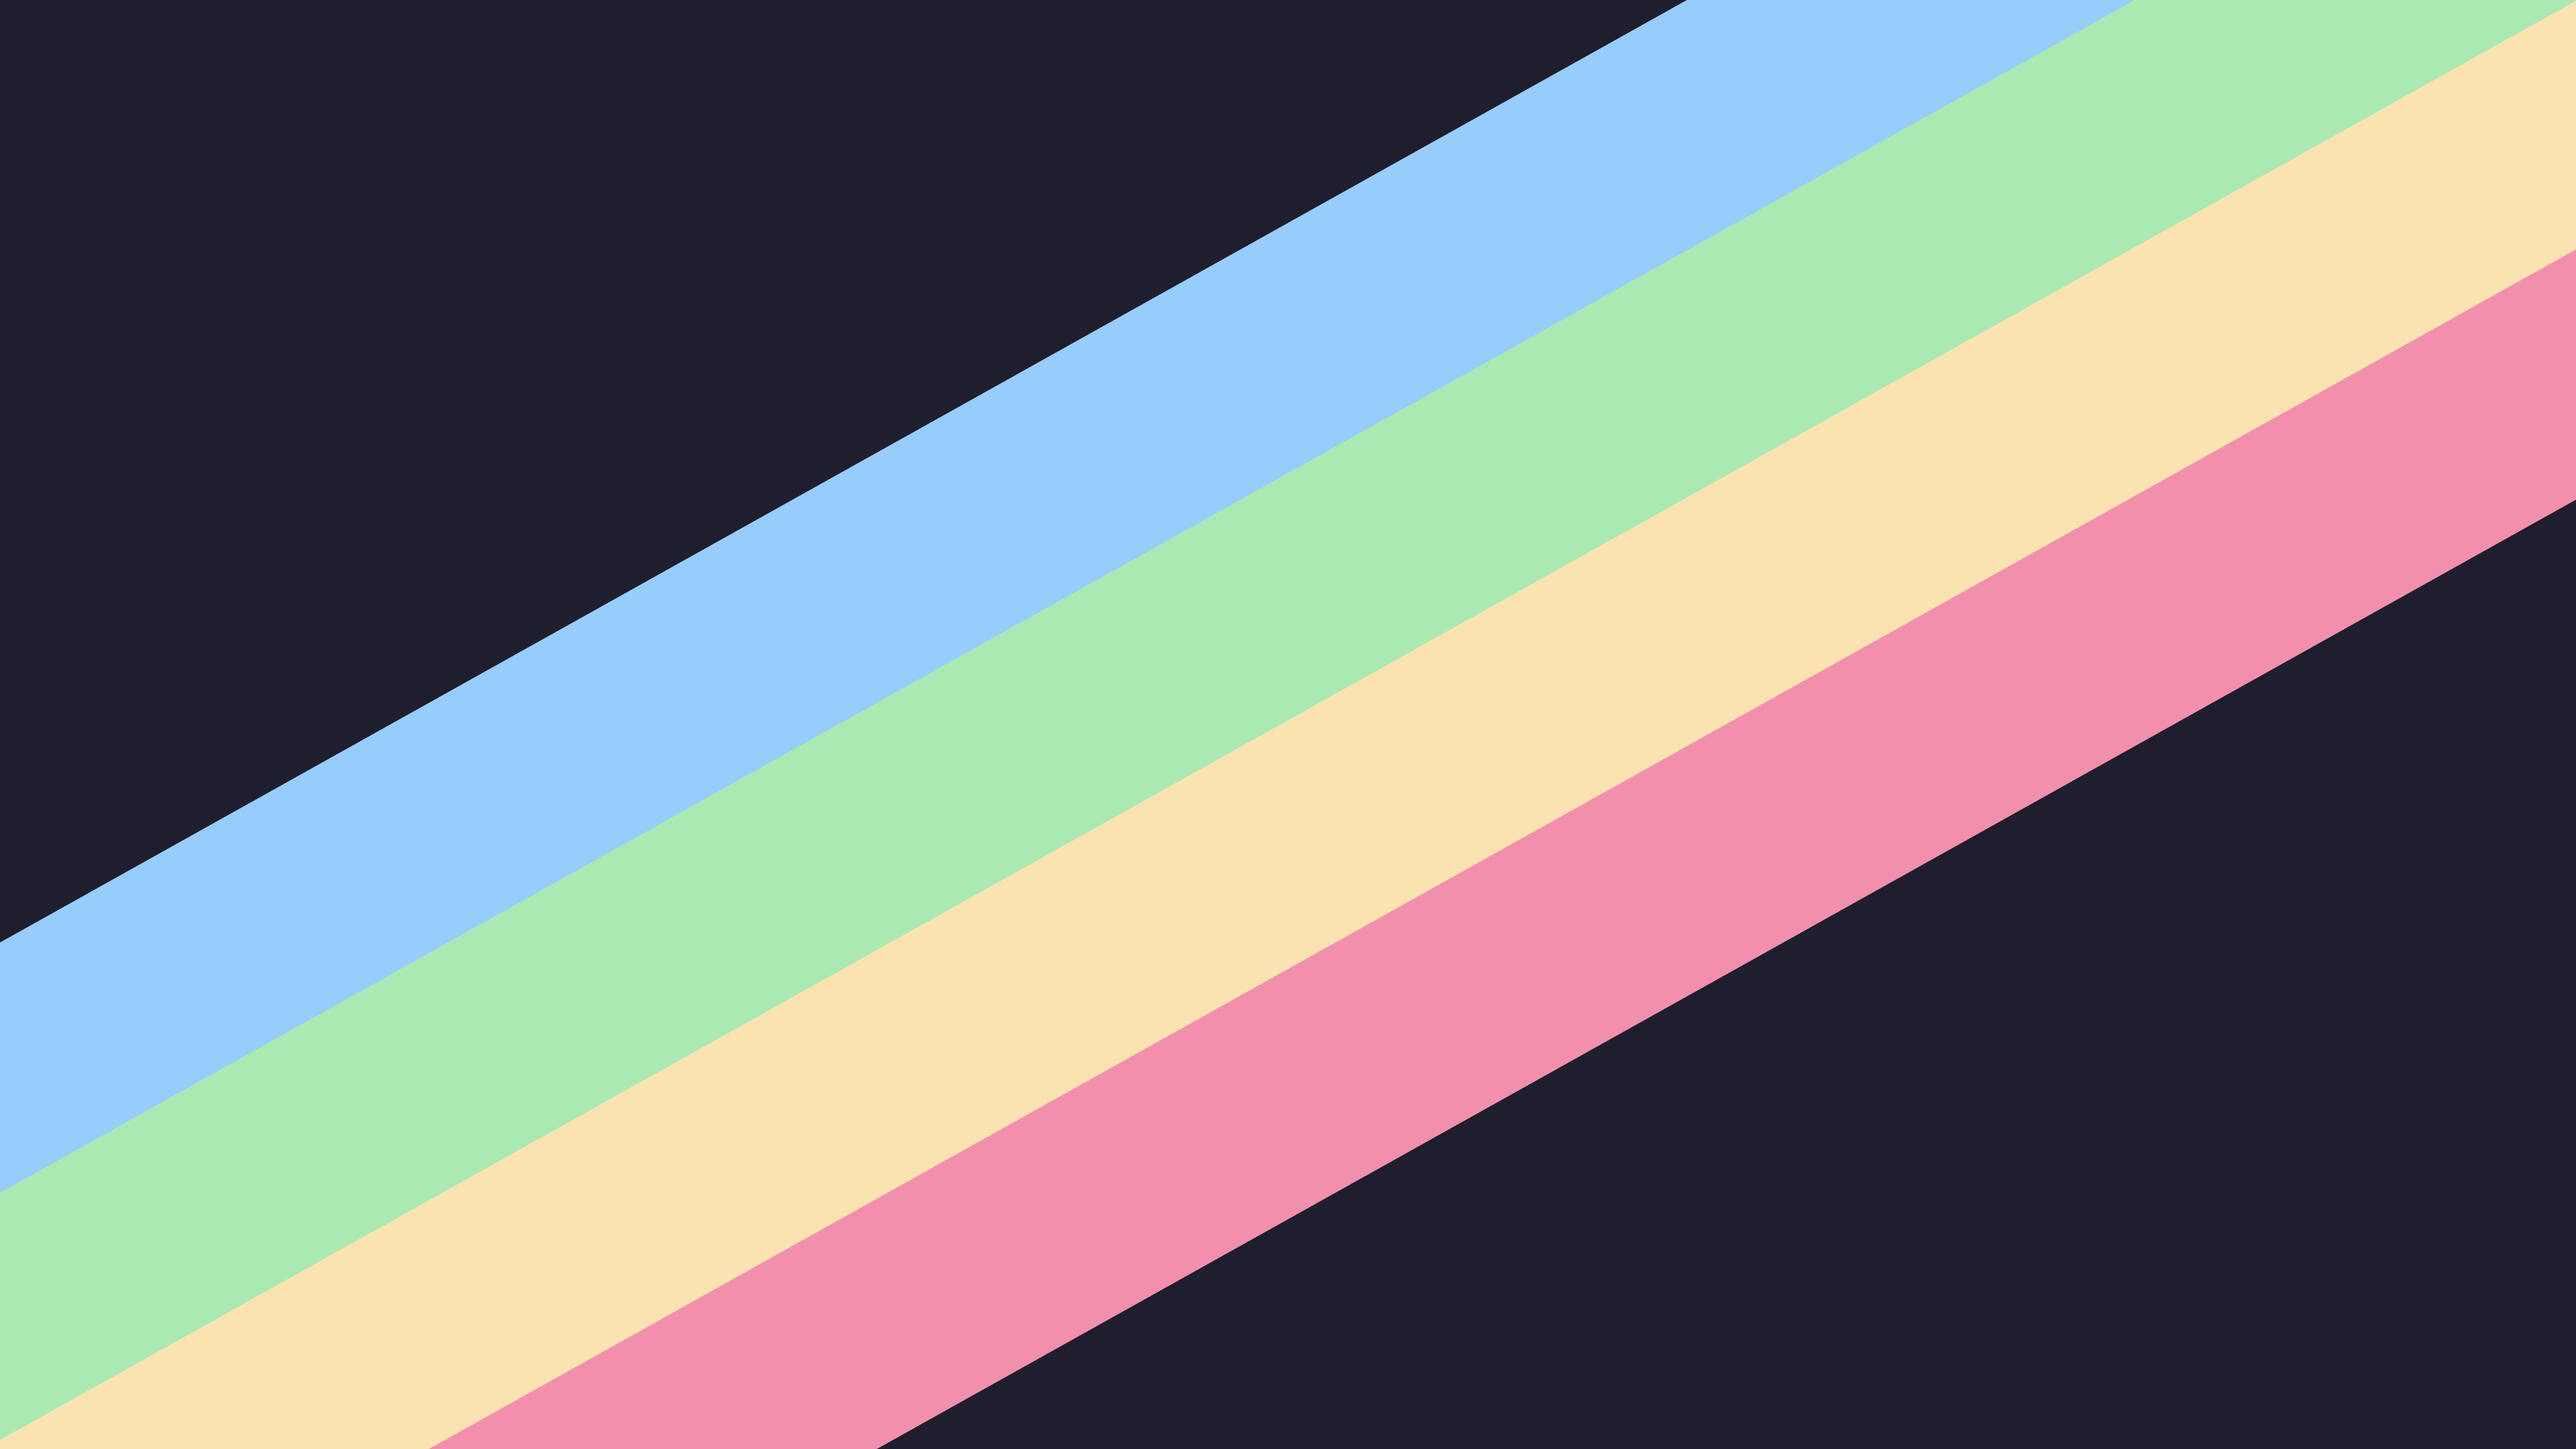
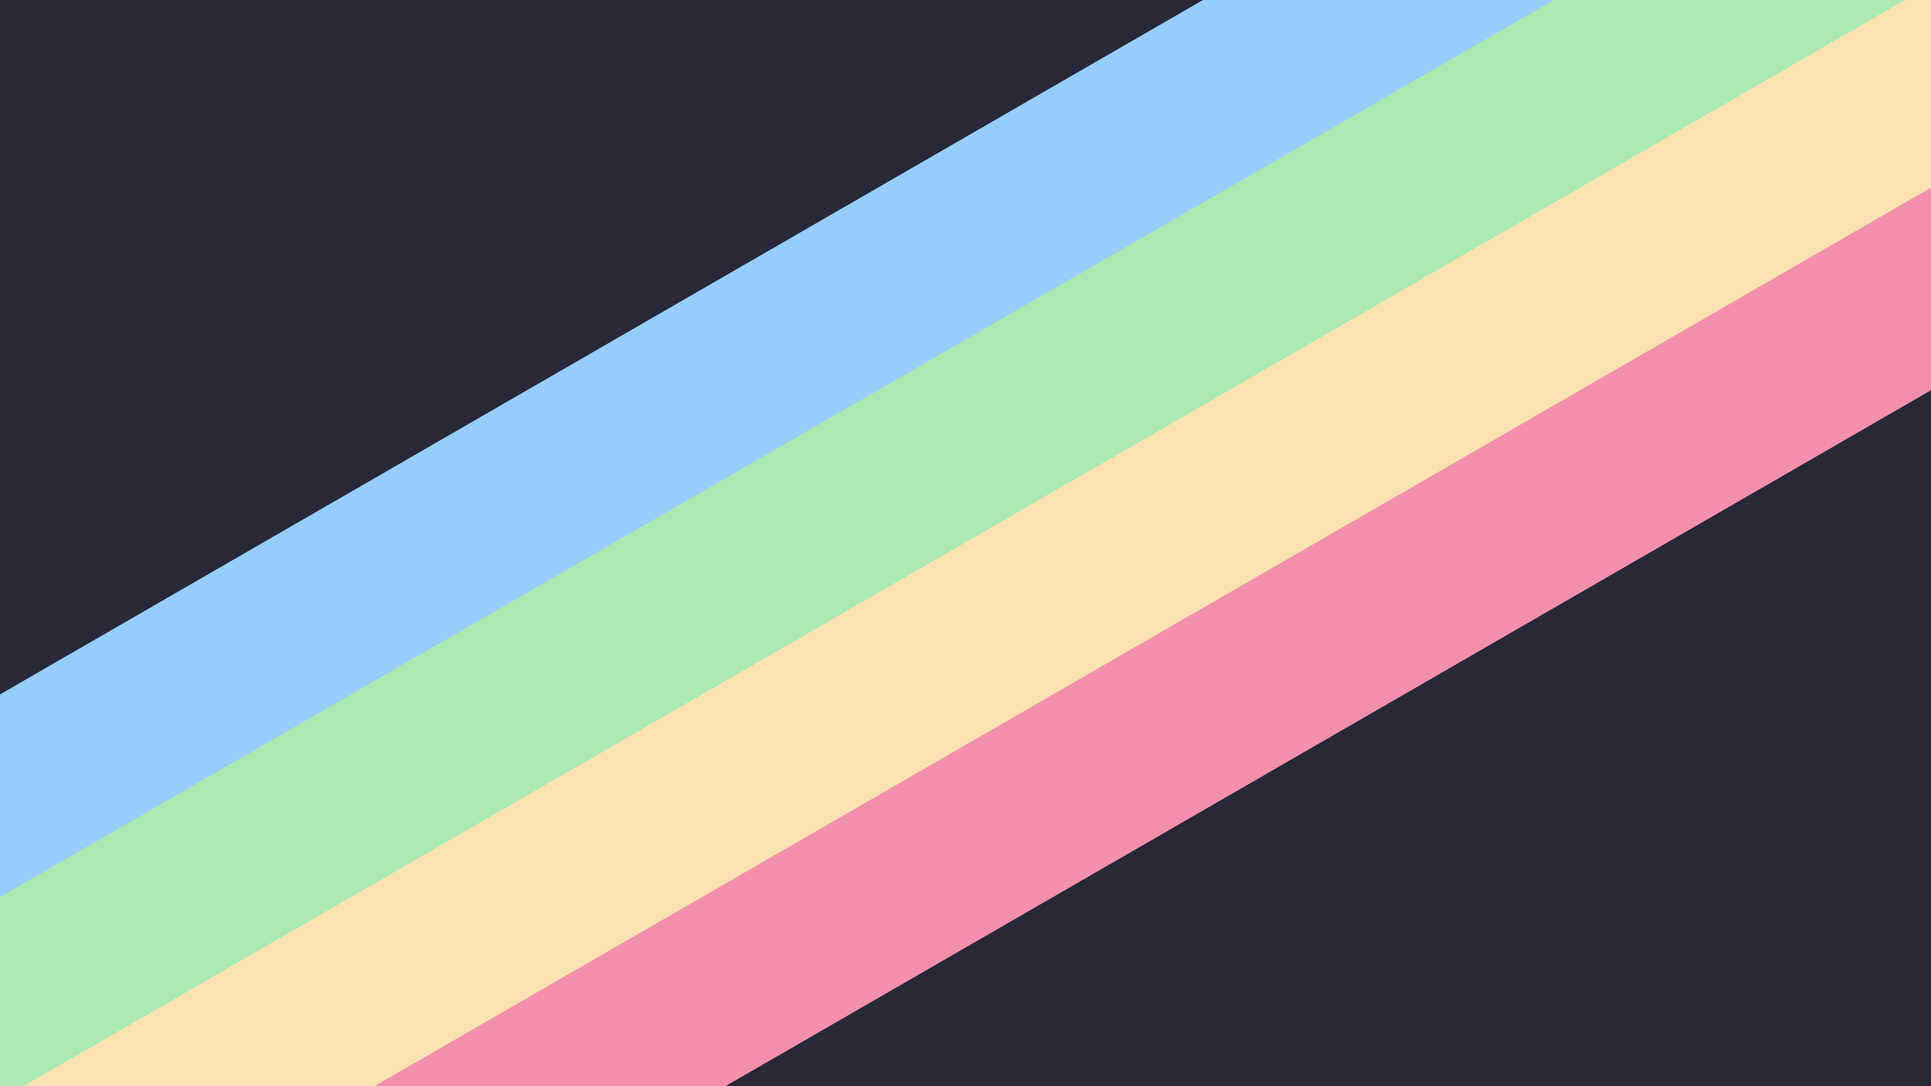
bg change

diff --git a/css/styles.css b/css/styles.css
@@ -139,7 +139,7 @@ html, body {
 }
 
 body {
-    background-image: url('/images/bg.webp');
+    background-image: url('/images/bg.png');
     background-position: center;
     background-repeat: no-repeat;
     background-size: 100% 100%;
